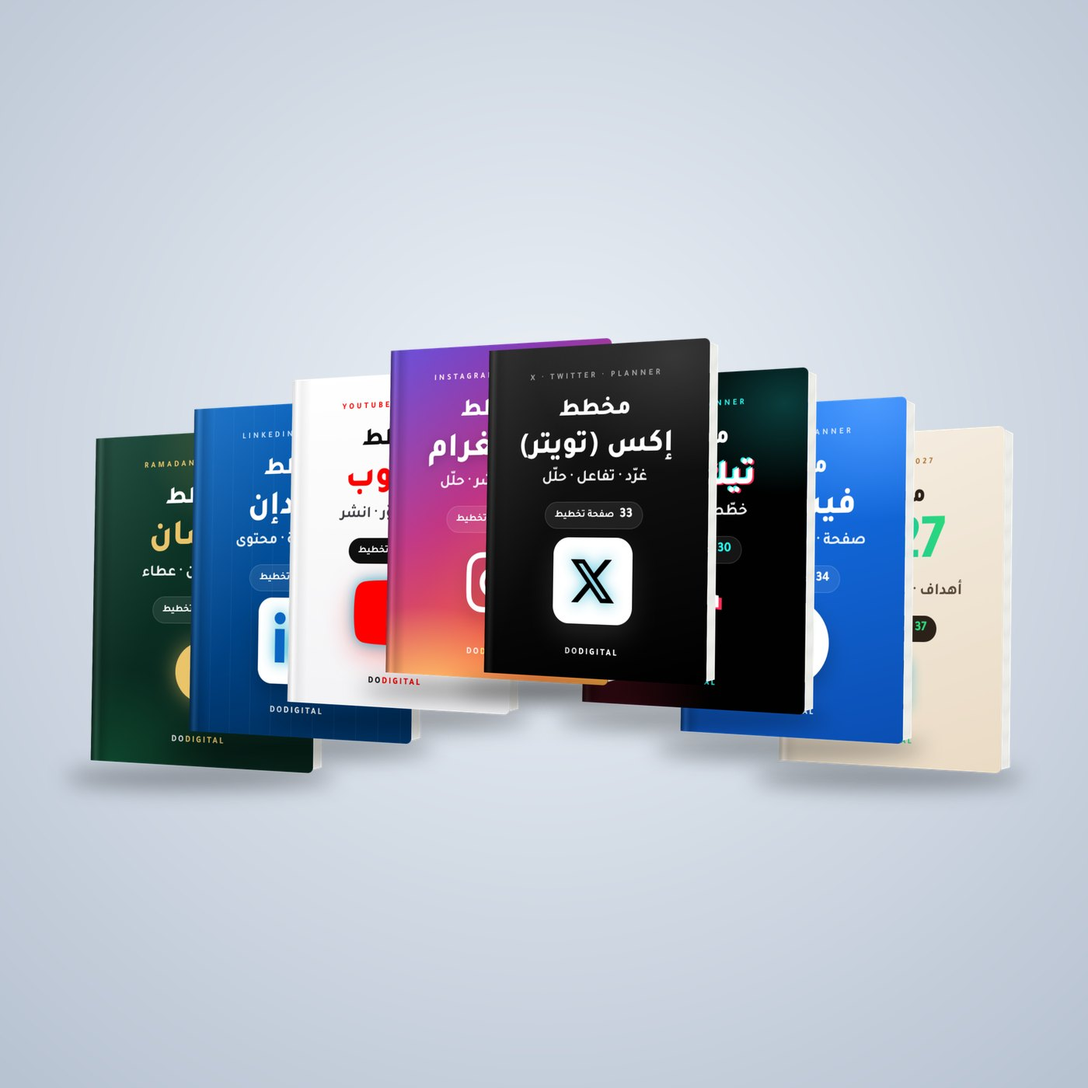
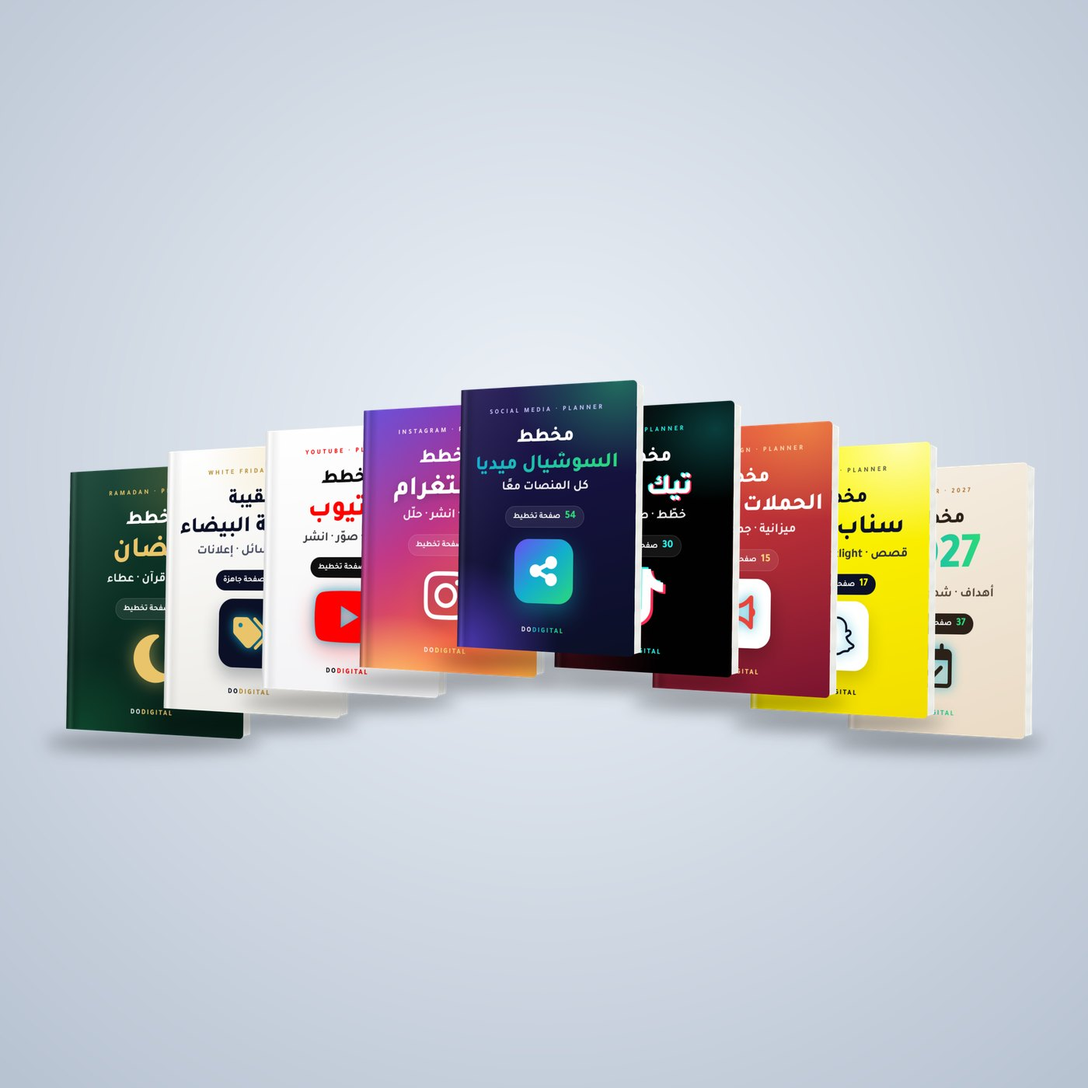
Bundles: social bundle = 8 platform planners (129), all bundle = 13 products (199)
Claude-Session: https://claude.ai/code/session_01BZyLcaM7EqB3e378WxuMfY

Changed region(s): [[0.0307, 0.3071, 0.9521, 0.7371]]

diff --git a/template-all-bundle.html b/template-all-bundle.html
@@ -4,14 +4,14 @@
 <meta charset="utf-8">
 <meta name="viewport" content="width=device-width, initial-scale=1">
 <title>الباقة الكاملة: كل المخططات | DoDigital</title>
-<meta name="description" content="كل مخططات DoDigital في باقة واحدة: مخططات السوشيال الستة، ومخطط 2027 لأهدافك وشهورك وميزانيتك، ومخطط رمضان. أفضل قيمة مقابل السعر.">
+<meta name="description" content="كل منتجات القوالب في باقة واحدة: مخطط السوشيال الشامل، وحقيبة الجمعة البيضاء، ومخطط الحملات الإعلانية، ومخططات المنصات الثمانية، ومخطط 2027 ومخطط رمضان. أف">
 <meta name="theme-color" content="#0B1026">
 <link rel="canonical" href="https://dodigital.me/template-all-bundle.html">
 <meta property="og:type" content="website">
 <meta property="og:locale" content="ar_AR">
 <meta property="og:site_name" content="DoDigital">
 <meta property="og:title" content="الباقة الكاملة: كل المخططات | DoDigital">
-<meta property="og:description" content="كل مخططات DoDigital في باقة واحدة: مخططات السوشيال الستة، ومخطط 2027 لأهدافك وشهورك وميزانيتك، ومخطط رمضان. أفضل قيمة مقابل السعر.">
+<meta property="og:description" content="كل منتجات القوالب في باقة واحدة: مخطط السوشيال الشامل، وحقيبة الجمعة البيضاء، ومخطط الحملات الإعلانية، ومخططات المنصات الثمانية، ومخطط 2027 ومخطط رمضان. أف">
 <meta property="og:url" content="https://dodigital.me/template-all-bundle.html">
 <meta property="og:image" content="https://dodigital.me/assets/img/products/tpl-all-bundle-mockup.jpg">
 <meta name="twitter:card" content="summary_large_image">
@@ -22,7 +22,7 @@
 <link href="https://fonts.googleapis.com/css2?family=Tajawal:wght@400;500;700;800&display=swap" rel="stylesheet">
 <link rel="stylesheet" href="assets/vendor/fontawesome/css/all.min.css?v=20261112b">
 <link rel="stylesheet" href="assets/css/style.css?v=20261112b">
-<script type="application/ld+json">{"@context": "https://schema.org", "@type": "Product", "name": "الباقة الكاملة: كل المخططات", "image": "https://dodigital.me/assets/img/products/tpl-all-bundle-mockup.jpg", "description": "كل مخططات DoDigital في باقة واحدة: مخططات السوشيال الستة، ومخطط 2027 لأهدافك وشهورك وميزانيتك، ومخطط رمضان. أفضل قيمة مقابل السعر.", "brand": {"@type": "Brand", "name": "DoDigital"}, "offers": {"@type": "Offer", "price": "129", "priceCurrency": "SAR", "availability": "https://schema.org/InStock", "url": "https://dodigital.me/template-all-bundle.html"}}</script>
+<script type="application/ld+json">{"@context": "https://schema.org", "@type": "Product", "name": "الباقة الكاملة: كل المخططات", "image": "https://dodigital.me/assets/img/products/tpl-all-bundle-mockup.jpg", "description": "كل منتجات القوالب في باقة واحدة: مخطط السوشيال الشامل، وحقيبة الجمعة البيضاء، ومخطط الحملات الإعلانية، ومخططات المنصات الثمانية، ومخطط 2027 ومخطط رمضان. أفضل قيمة مقابل السعر.", "brand": {"@type": "Brand", "name": "DoDigital"}, "offers": {"@type": "Offer", "price": "199", "priceCurrency": "SAR", "availability": "https://schema.org/InStock", "url": "https://dodigital.me/template-all-bundle.html"}}</script>
 </head>
 <body>
 
@@ -53,21 +53,21 @@
 <main style="padding-top:110px">
   <section class="section" style="padding-top:50px">
     <div class="container pd">
-      <div class="pd__media"><div class="pd__mockup"><div class="price-tag"><del>302 ر.س</del><strong>129 ر.س</strong></div><img src="assets/img/products/tpl-all-bundle-mockup.jpg" alt="الباقة الكاملة: كل المخططات" width="1400" height="1400"></div></div>
+      <div class="pd__media"><div class="pd__mockup"><div class="price-tag"><del>517 ر.س</del><strong>199 ر.س</strong></div><img src="assets/img/products/tpl-all-bundle-mockup.jpg" alt="الباقة الكاملة: كل المخططات" width="1400" height="1400"></div></div>
       <div>
         <div class="crumbs" style="color:var(--muted)"><a href="index.html">الرئيسية</a><span>/</span><a href="templates.html">قوالب للتسويق</a></div>
-        <span class="badge badge--green" style="margin-bottom:14px"><i class="fas fa-bolt"></i> 8 مخططات · 240+ صفحة</span>
+        <span class="badge badge--green" style="margin-bottom:14px"><i class="fas fa-bolt"></i> 13 منتجًا</span>
         <h1>الباقة الكاملة: كل المخططات</h1>
-        <span class="price"><del>302</del>129 ر.س</span>
-        <p class="lead">كل مخططات DoDigital في باقة واحدة: مخططات السوشيال الستة، ومخطط 2027 لأهدافك وشهورك وميزانيتك، ومخطط رمضان. أفضل قيمة مقابل السعر.</p>
-        <div class="facts"><span><i class="fas fa-file-pdf"></i> PDF للطباعة والآيباد</span><span><i class="fas fa-layer-group"></i> 8 مخططات</span><span><i class="fas fa-tags"></i> توفير 173 ر.س</span><span><i class="fas fa-language"></i> بالعربي</span></div>
+        <span class="price"><del>517</del>199 ر.س</span>
+        <p class="lead">كل منتجات القوالب في باقة واحدة: مخطط السوشيال الشامل، وحقيبة الجمعة البيضاء، ومخطط الحملات الإعلانية، ومخططات المنصات الثمانية، ومخطط 2027 ومخطط رمضان. أفضل قيمة مقابل السعر.</p>
+        <div class="facts"><span><i class="fas fa-file-pdf"></i> PDF للطباعة والآيباد</span><span><i class="fas fa-layer-group"></i> 13 منتجات</span><span><i class="fas fa-tags"></i> توفير 318 ر.س</span><span><i class="fas fa-language"></i> بالعربي</span></div>
         <div class="actions">
-          <a class="btn btn--wa" href="https://wa.me/971552473989?text=%D9%85%D8%B1%D8%AD%D8%A8%D8%A7%D9%8B%20DoDigital%D8%8C%20%D8%A3%D8%B1%D8%BA%D8%A8%20%D8%A8%D8%B4%D8%B1%D8%A7%D8%A1%3A%20%D8%A7%D9%84%D8%A8%D8%A7%D9%82%D8%A9%20%D8%A7%D9%84%D9%83%D8%A7%D9%85%D9%84%D8%A9%3A%20%D9%83%D9%84%20%D8%A7%D9%84%D9%85%D8%AE%D8%B7%D8%B7%D8%A7%D8%AA%20%28129%20%D8%B1.%D8%B3%29" target="_blank" rel="noopener"><i class="fab fa-whatsapp"></i> اطلب الآن</a>
+          <a class="btn btn--wa" href="https://wa.me/971552473989?text=%D9%85%D8%B1%D8%AD%D8%A8%D8%A7%D9%8B%20DoDigital%D8%8C%20%D8%A3%D8%B1%D8%BA%D8%A8%20%D8%A8%D8%B4%D8%B1%D8%A7%D8%A1%3A%20%D8%A7%D9%84%D8%A8%D8%A7%D9%82%D8%A9%20%D8%A7%D9%84%D9%83%D8%A7%D9%85%D9%84%D8%A9%3A%20%D9%83%D9%84%20%D8%A7%D9%84%D9%85%D8%AE%D8%B7%D8%B7%D8%A7%D8%AA%20%28199%20%D8%B1.%D8%B3%29" target="_blank" rel="noopener"><i class="fab fa-whatsapp"></i> اطلب الآن</a>
           <a class="btn btn--line" href="contact.html">لديك سؤال؟</a>
         </div>
         <div class="prose" style="margin-top:40px">
           <h2 style="margin-top:0">ماذا يحتوي؟</h2>
-          <ul><li><a href="template-instagram-planner.html">مخطط إنستغرام</a></li><li><a href="template-tiktok-planner.html">مخطط تيك توك</a></li><li><a href="template-facebook-planner.html">مخطط فيسبوك</a></li><li><a href="template-youtube-planner.html">مخطط يوتيوب</a></li><li><a href="template-linkedin-planner.html">مخطط لينكدإن</a></li><li><a href="template-x-planner.html">مخطط إكس (تويتر)</a></li><li><a href="template-planner-2027.html">مخطط 2027</a></li><li><a href="template-ramadan-planner.html">مخطط رمضان</a></li></ul>
+          <ul><li><a href="template-social-media-planner.html">مخطط السوشيال ميديا الشامل</a></li><li><a href="template-white-friday-kit.html">حقيبة الجمعة البيضاء</a></li><li><a href="template-ads-planner.html">مخطط الحملات الإعلانية</a></li><li><a href="template-instagram-planner.html">مخطط إنستغرام</a></li><li><a href="template-tiktok-planner.html">مخطط تيك توك</a></li><li><a href="template-facebook-planner.html">مخطط فيسبوك</a></li><li><a href="template-youtube-planner.html">مخطط يوتيوب</a></li><li><a href="template-linkedin-planner.html">مخطط لينكدإن</a></li><li><a href="template-x-planner.html">مخطط إكس (تويتر)</a></li><li><a href="template-threads-planner.html">مخطط ثريدز</a></li><li><a href="template-snapchat-planner.html">مخطط سناب شات</a></li><li><a href="template-planner-2027.html">مخطط 2027</a></li><li><a href="template-ramadan-planner.html">مخطط رمضان</a></li></ul>
           <h2>لمن هذا المنتج؟</h2>
           <ul><li>من يدير أكثر من حساب أو منصة</li><li>أصحاب المشاريع ومديرو السوشيال ميديا</li><li>من يريد كل المخططات بأقل سعر</li></ul>
           <h2>أسئلة شائعة</h2>
@@ -81,8 +81,35 @@
 
   <section class="section" style="padding-top:0">
     <div class="container">
-      <div class="head"><span class="eyebrow"><i class="fas fa-box-open"></i> داخل الباقة</span><h2>المخططات المضمّنة</h2><p>اضغط على أي مخطط لترى صفحاته من الداخل قبل الطلب.</p></div>
+      <div class="head"><span class="eyebrow"><i class="fas fa-box-open"></i> داخل الباقة</span><h2>المنتجات المضمّنة</h2><p>اضغط على أي مخطط لترى صفحاته من الداخل قبل الطلب.</p></div>
       <div class="products-grid">
+        <a class="product-card" href="template-social-media-planner.html">
+          <div class="product-card__media"><span class="badge">الأشمل</span><img src="assets/img/products/tpl-social-media-planner-3d.png" alt="مخطط السوشيال ميديا الشامل" loading="lazy"></div>
+          <div class="product-card__body">
+            <span class="badge badge--green" style="align-self:flex-start;margin-bottom:12px"><i class="fas fa-bolt"></i> مخطط PDF · 56 صفحة</span>
+            <h3>مخطط السوشيال ميديا الشامل</h3>
+            <p>كل منصاتك في مخطط واحد من 54 صفحة: خطط المحتوى، الأهداف، الإحصائيات، الإعلانات، المنافسون والهاشتاقات…</p>
+            <div class="product-card__foot"><span class="price"><del>99</del>49 ر.س</span><span class="link-arrow">التفاصيل <i class="fas fa-arrow-left"></i></span></div>
+          </div>
+        </a>
+        <a class="product-card" href="template-white-friday-kit.html">
+          <div class="product-card__media"><span class="badge">موسمي</span><img src="assets/img/products/tpl-white-friday-planner-3d.png" alt="حقيبة الجمعة البيضاء" loading="lazy"></div>
+          <div class="product-card__body">
+            <span class="badge badge--green" style="align-self:flex-start;margin-bottom:12px"><i class="fas fa-bolt"></i> حقيبة PDF · 18 صفحة</span>
+            <h3>حقيبة الجمعة البيضاء</h3>
+            <p>حملتك كاملة: حاسبة الخصم والربح، جدول زمني، رسائل واتساب وبريد، نصوص إعلانات وكابشنات جاهزة…</p>
+            <div class="product-card__foot"><span class="price"><del>99</del>49 ر.س</span><span class="link-arrow">التفاصيل <i class="fas fa-arrow-left"></i></span></div>
+          </div>
+        </a>
+        <a class="product-card" href="template-ads-planner.html">
+          <div class="product-card__media"><span class="badge">جديد</span><img src="assets/img/products/tpl-ads-planner-3d.png" alt="مخطط الحملات الإعلانية" loading="lazy"></div>
+          <div class="product-card__body">
+            <span class="badge badge--green" style="align-self:flex-start;margin-bottom:12px"><i class="fas fa-bolt"></i> مخطط PDF · 17 صفحة</span>
+            <h3>مخطط الحملات الإعلانية</h3>
+            <p>إعلاناتك على كل المنصات: الميزانية، الجمهور، التصاميم، اختبارات A/B، متتبع النتائج وحاسبة العائد…</p>
+            <div class="product-card__foot"><span class="price"><del>79</del>39 ر.س</span><span class="link-arrow">التفاصيل <i class="fas fa-arrow-left"></i></span></div>
+          </div>
+        </a>
         <a class="product-card" href="template-instagram-planner.html">
           <div class="product-card__media"><span class="badge">خصم 51%</span><img src="assets/img/products/tpl-instagram-planner-3d.png" alt="مخطط إنستغرام" loading="lazy"></div>
           <div class="product-card__body">
@@ -134,6 +161,24 @@
             <span class="badge badge--green" style="align-self:flex-start;margin-bottom:12px"><i class="fas fa-bolt"></i> مخطط PDF · 35 صفحة</span>
             <h3>مخطط إكس (تويتر)</h3>
             <p>مخطط عربي لحسابك على إكس: الهوية وصوت العلامة، التغريدات والوسائط والاستطلاعات والمساحات، الإحصائيات والإعلانات…</p>
+            <div class="product-card__foot"><span class="price"><del>79</del>39 ر.س</span><span class="link-arrow">التفاصيل <i class="fas fa-arrow-left"></i></span></div>
+          </div>
+        </a>
+        <a class="product-card" href="template-threads-planner.html">
+          <div class="product-card__media"><span class="badge">جديد</span><img src="assets/img/products/tpl-threads-planner-3d.png" alt="مخطط ثريدز" loading="lazy"></div>
+          <div class="product-card__body">
+            <span class="badge badge--green" style="align-self:flex-start;margin-bottom:12px"><i class="fas fa-bolt"></i> مخطط PDF · 24 صفحة</span>
+            <h3>مخطط ثريدز</h3>
+            <p>مخطط عربي لحسابك على ثريدز: المنشورات النصية والصور والكاروسيل والفيديو، الإحصائيات، الأهداف والتعاونات…</p>
+            <div class="product-card__foot"><span class="price"><del>79</del>39 ر.س</span><span class="link-arrow">التفاصيل <i class="fas fa-arrow-left"></i></span></div>
+          </div>
+        </a>
+        <a class="product-card" href="template-snapchat-planner.html">
+          <div class="product-card__media"><span class="badge">جديد</span><img src="assets/img/products/tpl-snapchat-planner-3d.png" alt="مخطط سناب شات" loading="lazy"></div>
+          <div class="product-card__body">
+            <span class="badge badge--green" style="align-self:flex-start;margin-bottom:12px"><i class="fas fa-bolt"></i> مخطط PDF · 19 صفحة</span>
+            <h3>مخطط سناب شات</h3>
+            <p>قصصك اليومية وSpotlight وإحصائياتك وإعلاناتك على سناب شات في مخطط عربي واحد…</p>
             <div class="product-card__foot"><span class="price"><del>79</del>39 ر.س</span><span class="link-arrow">التفاصيل <i class="fas fa-arrow-left"></i></span></div>
           </div>
         </a>

diff --git a/template-social-bundle.html b/template-social-bundle.html
@@ -4,14 +4,14 @@
 <meta charset="utf-8">
 <meta name="viewport" content="width=device-width, initial-scale=1">
 <title>باقة مخططات السوشيال ميديا | DoDigital</title>
-<meta name="description" content="ستة مخططات عربية في باقة واحدة: إنستغرام وتيك توك وفيسبوك ويوتيوب ولينكدإن وإكس. كل ما تحتاجه لتنظيم محتواك وإحصائياتك وإعلاناتك على كل المنصات، بخصم يقارب الن">
+<meta name="description" content="ثمانية مخططات عربية في باقة واحدة: إنستغرام وتيك توك وفيسبوك ويوتيوب ولينكدإن وإكس وثريدز وسناب شات. كل ما تحتاجه لتنظيم محتواك وإحصائياتك وإعلاناتك على كل">
 <meta name="theme-color" content="#0B1026">
 <link rel="canonical" href="https://dodigital.me/template-social-bundle.html">
 <meta property="og:type" content="website">
 <meta property="og:locale" content="ar_AR">
 <meta property="og:site_name" content="DoDigital">
 <meta property="og:title" content="باقة مخططات السوشيال ميديا | DoDigital">
-<meta property="og:description" content="ستة مخططات عربية في باقة واحدة: إنستغرام وتيك توك وفيسبوك ويوتيوب ولينكدإن وإكس. كل ما تحتاجه لتنظيم محتواك وإحصائياتك وإعلاناتك على كل المنصات، بخصم يقارب الن">
+<meta property="og:description" content="ثمانية مخططات عربية في باقة واحدة: إنستغرام وتيك توك وفيسبوك ويوتيوب ولينكدإن وإكس وثريدز وسناب شات. كل ما تحتاجه لتنظيم محتواك وإحصائياتك وإعلاناتك على كل">
 <meta property="og:url" content="https://dodigital.me/template-social-bundle.html">
 <meta property="og:image" content="https://dodigital.me/assets/img/products/tpl-social-bundle-mockup.jpg">
 <meta name="twitter:card" content="summary_large_image">
@@ -22,7 +22,7 @@
 <link href="https://fonts.googleapis.com/css2?family=Tajawal:wght@400;500;700;800&display=swap" rel="stylesheet">
 <link rel="stylesheet" href="assets/vendor/fontawesome/css/all.min.css?v=20261112b">
 <link rel="stylesheet" href="assets/css/style.css?v=20261112b">
-<script type="application/ld+json">{"@context": "https://schema.org", "@type": "Product", "name": "باقة مخططات السوشيال ميديا", "image": "https://dodigital.me/assets/img/products/tpl-social-bundle-mockup.jpg", "description": "ستة مخططات عربية في باقة واحدة: إنستغرام وتيك توك وفيسبوك ويوتيوب ولينكدإن وإكس. كل ما تحتاجه لتنظيم محتواك وإحصائياتك وإعلاناتك على كل المنصات، بخصم يتجاوز النصف.", "brand": {"@type": "Brand", "name": "DoDigital"}, "offers": {"@type": "Offer", "price": "99", "priceCurrency": "SAR", "availability": "https://schema.org/InStock", "url": "https://dodigital.me/template-social-bundle.html"}}</script>
+<script type="application/ld+json">{"@context": "https://schema.org", "@type": "Product", "name": "باقة مخططات السوشيال ميديا", "image": "https://dodigital.me/assets/img/products/tpl-social-bundle-mockup.jpg", "description": "ثمانية مخططات عربية في باقة واحدة: إنستغرام وتيك توك وفيسبوك ويوتيوب ولينكدإن وإكس وثريدز وسناب شات. كل ما تحتاجه لتنظيم محتواك وإحصائياتك وإعلاناتك على كل منصة.", "brand": {"@type": "Brand", "name": "DoDigital"}, "offers": {"@type": "Offer", "price": "129", "priceCurrency": "SAR", "availability": "https://schema.org/InStock", "url": "https://dodigital.me/template-social-bundle.html"}}</script>
 </head>
 <body>
 
@@ -53,21 +53,21 @@
 <main style="padding-top:110px">
   <section class="section" style="padding-top:50px">
     <div class="container pd">
-      <div class="pd__media"><div class="pd__mockup"><div class="price-tag"><del>234 ر.س</del><strong>99 ر.س</strong></div><img src="assets/img/products/tpl-social-bundle-mockup.jpg" alt="باقة مخططات السوشيال ميديا" width="1400" height="1400"></div></div>
+      <div class="pd__media"><div class="pd__mockup"><div class="price-tag"><del>312 ر.س</del><strong>129 ر.س</strong></div><img src="assets/img/products/tpl-social-bundle-mockup.jpg" alt="باقة مخططات السوشيال ميديا" width="1400" height="1400"></div></div>
       <div>
         <div class="crumbs" style="color:var(--muted)"><a href="index.html">الرئيسية</a><span>/</span><a href="templates.html">قوالب للتسويق</a></div>
-        <span class="badge badge--green" style="margin-bottom:14px"><i class="fas fa-bolt"></i> 6 مخططات · 190+ صفحة</span>
+        <span class="badge badge--green" style="margin-bottom:14px"><i class="fas fa-bolt"></i> 8 مخططات منصات</span>
         <h1>باقة مخططات السوشيال ميديا</h1>
-        <span class="price"><del>234</del>99 ر.س</span>
-        <p class="lead">ستة مخططات عربية في باقة واحدة: إنستغرام وتيك توك وفيسبوك ويوتيوب ولينكدإن وإكس. كل ما تحتاجه لتنظيم محتواك وإحصائياتك وإعلاناتك على كل المنصات، بخصم يتجاوز النصف.</p>
-        <div class="facts"><span><i class="fas fa-file-pdf"></i> PDF للطباعة والآيباد</span><span><i class="fas fa-layer-group"></i> 6 مخططات</span><span><i class="fas fa-tags"></i> توفير 135 ر.س</span><span><i class="fas fa-language"></i> بالعربي</span></div>
+        <span class="price"><del>312</del>129 ر.س</span>
+        <p class="lead">ثمانية مخططات عربية في باقة واحدة: إنستغرام وتيك توك وفيسبوك ويوتيوب ولينكدإن وإكس وثريدز وسناب شات. كل ما تحتاجه لتنظيم محتواك وإحصائياتك وإعلاناتك على كل منصة.</p>
+        <div class="facts"><span><i class="fas fa-file-pdf"></i> PDF للطباعة والآيباد</span><span><i class="fas fa-layer-group"></i> 8 مخططات</span><span><i class="fas fa-tags"></i> توفير 183 ر.س</span><span><i class="fas fa-language"></i> بالعربي</span></div>
         <div class="actions">
-          <a class="btn btn--wa" href="https://wa.me/971552473989?text=%D9%85%D8%B1%D8%AD%D8%A8%D8%A7%D9%8B%20DoDigital%D8%8C%20%D8%A3%D8%B1%D8%BA%D8%A8%20%D8%A8%D8%B4%D8%B1%D8%A7%D8%A1%3A%20%D8%A8%D8%A7%D9%82%D8%A9%20%D9%85%D8%AE%D8%B7%D8%B7%D8%A7%D8%AA%20%D8%A7%D9%84%D8%B3%D9%88%D8%B4%D9%8A%D8%A7%D9%84%20%D9%85%D9%8A%D8%AF%D9%8A%D8%A7%20%2899%20%D8%B1.%D8%B3%29" target="_blank" rel="noopener"><i class="fab fa-whatsapp"></i> اطلب الآن</a>
+          <a class="btn btn--wa" href="https://wa.me/971552473989?text=%D9%85%D8%B1%D8%AD%D8%A8%D8%A7%D9%8B%20DoDigital%D8%8C%20%D8%A3%D8%B1%D8%BA%D8%A8%20%D8%A8%D8%B4%D8%B1%D8%A7%D8%A1%3A%20%D8%A8%D8%A7%D9%82%D8%A9%20%D9%85%D8%AE%D8%B7%D8%B7%D8%A7%D8%AA%20%D8%A7%D9%84%D8%B3%D9%88%D8%B4%D9%8A%D8%A7%D9%84%20%D9%85%D9%8A%D8%AF%D9%8A%D8%A7%20%28129%20%D8%B1.%D8%B3%29" target="_blank" rel="noopener"><i class="fab fa-whatsapp"></i> اطلب الآن</a>
           <a class="btn btn--line" href="contact.html">لديك سؤال؟</a>
         </div>
         <div class="prose" style="margin-top:40px">
           <h2 style="margin-top:0">ماذا يحتوي؟</h2>
-          <ul><li><a href="template-instagram-planner.html">مخطط إنستغرام</a></li><li><a href="template-tiktok-planner.html">مخطط تيك توك</a></li><li><a href="template-facebook-planner.html">مخطط فيسبوك</a></li><li><a href="template-youtube-planner.html">مخطط يوتيوب</a></li><li><a href="template-linkedin-planner.html">مخطط لينكدإن</a></li><li><a href="template-x-planner.html">مخطط إكس (تويتر)</a></li></ul>
+          <ul><li><a href="template-instagram-planner.html">مخطط إنستغرام</a></li><li><a href="template-tiktok-planner.html">مخطط تيك توك</a></li><li><a href="template-facebook-planner.html">مخطط فيسبوك</a></li><li><a href="template-youtube-planner.html">مخطط يوتيوب</a></li><li><a href="template-linkedin-planner.html">مخطط لينكدإن</a></li><li><a href="template-x-planner.html">مخطط إكس (تويتر)</a></li><li><a href="template-threads-planner.html">مخطط ثريدز</a></li><li><a href="template-snapchat-planner.html">مخطط سناب شات</a></li></ul>
           <h2>لمن هذا المنتج؟</h2>
           <ul><li>من يدير أكثر من حساب أو منصة</li><li>أصحاب المشاريع ومديرو السوشيال ميديا</li><li>من يريد كل المخططات بأقل سعر</li></ul>
           <h2>أسئلة شائعة</h2>
@@ -134,6 +134,24 @@
             <span class="badge badge--green" style="align-self:flex-start;margin-bottom:12px"><i class="fas fa-bolt"></i> مخطط PDF · 35 صفحة</span>
             <h3>مخطط إكس (تويتر)</h3>
             <p>مخطط عربي لحسابك على إكس: الهوية وصوت العلامة، التغريدات والوسائط والاستطلاعات والمساحات، الإحصائيات والإعلانات…</p>
+            <div class="product-card__foot"><span class="price"><del>79</del>39 ر.س</span><span class="link-arrow">التفاصيل <i class="fas fa-arrow-left"></i></span></div>
+          </div>
+        </a>
+        <a class="product-card" href="template-threads-planner.html">
+          <div class="product-card__media"><span class="badge">جديد</span><img src="assets/img/products/tpl-threads-planner-3d.png" alt="مخطط ثريدز" loading="lazy"></div>
+          <div class="product-card__body">
+            <span class="badge badge--green" style="align-self:flex-start;margin-bottom:12px"><i class="fas fa-bolt"></i> مخطط PDF · 24 صفحة</span>
+            <h3>مخطط ثريدز</h3>
+            <p>مخطط عربي لحسابك على ثريدز: المنشورات النصية والصور والكاروسيل والفيديو، الإحصائيات، الأهداف والتعاونات…</p>
+            <div class="product-card__foot"><span class="price"><del>79</del>39 ر.س</span><span class="link-arrow">التفاصيل <i class="fas fa-arrow-left"></i></span></div>
+          </div>
+        </a>
+        <a class="product-card" href="template-snapchat-planner.html">
+          <div class="product-card__media"><span class="badge">جديد</span><img src="assets/img/products/tpl-snapchat-planner-3d.png" alt="مخطط سناب شات" loading="lazy"></div>
+          <div class="product-card__body">
+            <span class="badge badge--green" style="align-self:flex-start;margin-bottom:12px"><i class="fas fa-bolt"></i> مخطط PDF · 19 صفحة</span>
+            <h3>مخطط سناب شات</h3>
+            <p>قصصك اليومية وSpotlight وإحصائياتك وإعلاناتك على سناب شات في مخطط عربي واحد…</p>
             <div class="product-card__foot"><span class="price"><del>79</del>39 ر.س</span><span class="link-arrow">التفاصيل <i class="fas fa-arrow-left"></i></span></div>
           </div>
         </a>

diff --git a/templates.html b/templates.html
@@ -62,21 +62,21 @@
       <div class="head"><span class="eyebrow"><i class="fas fa-layer-group"></i> قوالب التسويق</span><h2>مخططات تسويق جاهزة بالعربي</h2><p>مخططات رقمية تفاعلية للآيباد وقابلة للطباعة، تنظّم بها محتواك وحساباتك خطوة بخطوة.</p></div>
       <div class="products-grid">
         <a class="product-card" href="template-social-bundle.html">
-          <div class="product-card__media"><span class="badge">وفّر 135 ر.س</span><img src="assets/img/products/tpl-social-bundle-3d.png" alt="باقة مخططات السوشيال ميديا" loading="lazy"></div>
+          <div class="product-card__media"><span class="badge">وفّر 183 ر.س</span><img src="assets/img/products/tpl-social-bundle-3d.png" alt="باقة مخططات السوشيال ميديا" loading="lazy"></div>
           <div class="product-card__body">
-            <span class="badge badge--green" style="align-self:flex-start;margin-bottom:12px"><i class="fas fa-bolt"></i> باقة · 6 مخططات · 190+ صفحة</span>
+            <span class="badge badge--green" style="align-self:flex-start;margin-bottom:12px"><i class="fas fa-bolt"></i> باقة · 8 مخططات منصات</span>
             <h3>باقة مخططات السوشيال ميديا</h3>
-            <p>ستة مخططات عربية في باقة واحدة: إنستغرام وتيك توك وفيسبوك ويوتيوب ولينكدإن وإكس. كل ما تحتاجه لتنظيم محتواك…</p>
-            <div class="product-card__foot"><span class="price"><del>234</del>99 ر.س</span><span class="link-arrow">التفاصيل <i class="fas fa-arrow-left"></i></span></div>
+            <p>ثمانية مخططات عربية في باقة واحدة: إنستغرام وتيك توك وفيسبوك ويوتيوب ولينكدإن وإكس وثريدز وسناب شات. كل ما تحتاجه…</p>
+            <div class="product-card__foot"><span class="price"><del>312</del>129 ر.س</span><span class="link-arrow">التفاصيل <i class="fas fa-arrow-left"></i></span></div>
           </div>
         </a>
         <a class="product-card" href="template-all-bundle.html">
-          <div class="product-card__media"><span class="badge">وفّر 173 ر.س</span><img src="assets/img/products/tpl-all-bundle-3d.png" alt="الباقة الكاملة: كل المخططات" loading="lazy"></div>
+          <div class="product-card__media"><span class="badge">وفّر 318 ر.س</span><img src="assets/img/products/tpl-all-bundle-3d.png" alt="الباقة الكاملة: كل المخططات" loading="lazy"></div>
           <div class="product-card__body">
-            <span class="badge badge--green" style="align-self:flex-start;margin-bottom:12px"><i class="fas fa-bolt"></i> باقة · 8 مخططات · 240+ صفحة</span>
+            <span class="badge badge--green" style="align-self:flex-start;margin-bottom:12px"><i class="fas fa-bolt"></i> باقة · 13 منتجًا</span>
             <h3>الباقة الكاملة: كل المخططات</h3>
-            <p>كل مخططات DoDigital في باقة واحدة: مخططات السوشيال الستة، ومخطط 2027 لأهدافك وشهورك وميزانيتك، ومخطط رمضان.…</p>
-            <div class="product-card__foot"><span class="price"><del>302</del>129 ر.س</span><span class="link-arrow">التفاصيل <i class="fas fa-arrow-left"></i></span></div>
+            <p>كل منتجات القوالب في باقة واحدة: مخطط السوشيال الشامل، وحقيبة الجمعة البيضاء، ومخطط الحملات الإعلانية، ومخططات…</p>
+            <div class="product-card__foot"><span class="price"><del>517</del>199 ر.س</span><span class="link-arrow">التفاصيل <i class="fas fa-arrow-left"></i></span></div>
           </div>
         </a>
         <a class="product-card" href="template-instagram-planner.html">

diff --git a/CLAUDE.md b/CLAUDE.md
@@ -6,7 +6,7 @@
 - Products menu has exactly three categories: كتبنا (`books.html`), قوالب للتسويق (`templates.html`), برومبتات مجانية (`prompts.html`). The site no longer offers consulting or training courses — don't add them back unless asked.
 - Blog articles are root-level pages (e.g. `copywriting-formulas.html`) using `.prose`, a sticky `.toc`, FAQ section and BlogPosting + FAQPage JSON-LD. New articles: link them from `blog.html`, the home blog section, and related articles; add to `sitemap.xml`.
 - Product pages show a draggable CSS 3D book (`.book3d`, flat covers `*-front.jpg` / `*-back.jpg`) and a "look inside" gallery of watermarked sample pages (`assets/img/products/inside/`, `data-inside`). Only watermarked samples may go in the repo, never full product files.
-- Products: book `product-chatgpt.html` (70); templates: `template-instagram-planner.html` (39) and `template-tiktok-planner.html` (39), `template-planner-2027.html`, `template-facebook-planner.html`, `template-youtube-planner.html`, `template-linkedin-planner.html`, `template-x-planner.html`, `template-threads-planner.html` (all 39), `template-ramadan-planner.html` (29, own design), `template-social-media-planner.html` (49, all-platforms planner), `template-white-friday-kit.html` (49, sale campaign kit), `template-ads-planner.html` (39), `template-snapchat-planner.html` (39), bundles `template-social-bundle.html` (99, 6 social planners) and `template-all-bundle.html` (129, all 8 planners, product-card grid of included planners instead of the 3D book), all PDF only — its source is a PLR product whose license allows selling finished PDF/PNG only, never editable/Canva files or PLR rights). Prices in SAR. Covers live in `assets/img/products/` (`*-3d.png` transparent for cards, `*-mockup.jpg` for product pages). New product page = copy an existing product page, update head meta + Product JSON-LD, add its card to `templates.html` or `books.html`, add to `sitemap.xml`. Never put the paid product files themselves in this public repo — buyers get them via a Google Drive link after paying.
+- Products: book `product-chatgpt.html` (70); templates: `template-instagram-planner.html` (39) and `template-tiktok-planner.html` (39), `template-planner-2027.html`, `template-facebook-planner.html`, `template-youtube-planner.html`, `template-linkedin-planner.html`, `template-x-planner.html`, `template-threads-planner.html` (all 39), `template-ramadan-planner.html` (29, own design), `template-social-media-planner.html` (49, all-platforms planner), `template-white-friday-kit.html` (49, sale campaign kit), `template-ads-planner.html` (39), `template-snapchat-planner.html` (39), bundles `template-social-bundle.html` (129, the 8 platform planners) and `template-all-bundle.html` (199, all 13 template products, product-card grid of included planners instead of the 3D book), all PDF only — its source is a PLR product whose license allows selling finished PDF/PNG only, never editable/Canva files or PLR rights). Prices in SAR. Covers live in `assets/img/products/` (`*-3d.png` transparent for cards, `*-mockup.jpg` for product pages). New product page = copy an existing product page, update head meta + Product JSON-LD, add its card to `templates.html` or `books.html`, add to `sitemap.xml`. Never put the paid product files themselves in this public repo — buyers get them via a Google Drive link after paying.
 - Prompts on `prompts.html` (100+) are `<article class="prompt" data-cat="...">` cards with `<mark>[variables]</mark>`, a copy button and `data-ai="chatgpt|claude"` links (hrefs filled by main.js); fields (data-cat): marketing, business, realestate, ecommerce, sales, content, visual (= "الصور والفيديو"), income (= "صناعة المال", sub-badges like العمل الحر / الدروبشيبينغ). `prompts.html#income` opens a tab directly. Update tab counts and the totals on index.html/products.html when adding prompts.
 - `free-gift.html` gates a free 9-page sample of the 2027 planner behind a name + email form (`data-gift-form`; leads go to the Google Form set in `LEADS` in main.js, or to WhatsApp while LEADS.FORM is empty) (`assets/free/dodigital-2027-free-sample.pdf`, our own design, OK to be public) next to the newsletter form; `about.html` is the من نحن page. Both are linked in every footer.
 - Header and footer are duplicated in every `.html` page — when editing them, update every page.
